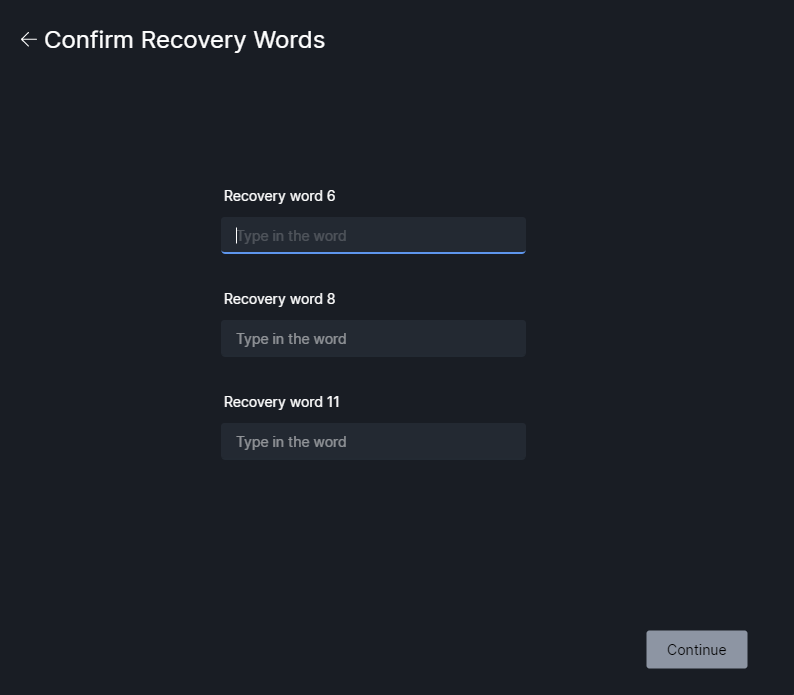
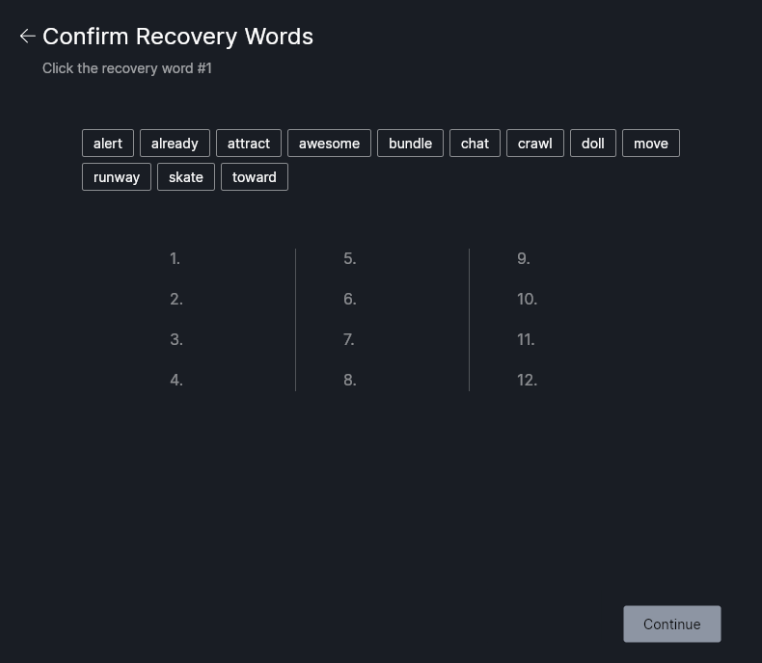
update confirm recov words
new word selection

diff --git a/docs/using-wasabi/WalletGeneration.md b/docs/using-wasabi/WalletGeneration.md
@@ -41,7 +41,7 @@ You have to use this seed phrase **together with** your password to recover your
 
 ![Wasabi Wallet recovery words](/AddWalletRecoveryWords.png "Wasabi Wallet recovery words")
 
-5. You must confirm 3 of the 12 Recovery Words, as a quick check to make sure that your Recovery Words are backed up.
+5. You must confirm the Recovery Words by clicking on the right word in the right order, as a check to make sure that your Recovery Words are backed up.
 So, confirm the Recovery Words, and click `Continue`.
 
 ![Wasabi Wallet confirm recovery words](/AddWalletConfirmRecoveryWords.png "Wasabi Wallet confirm recovery words")
